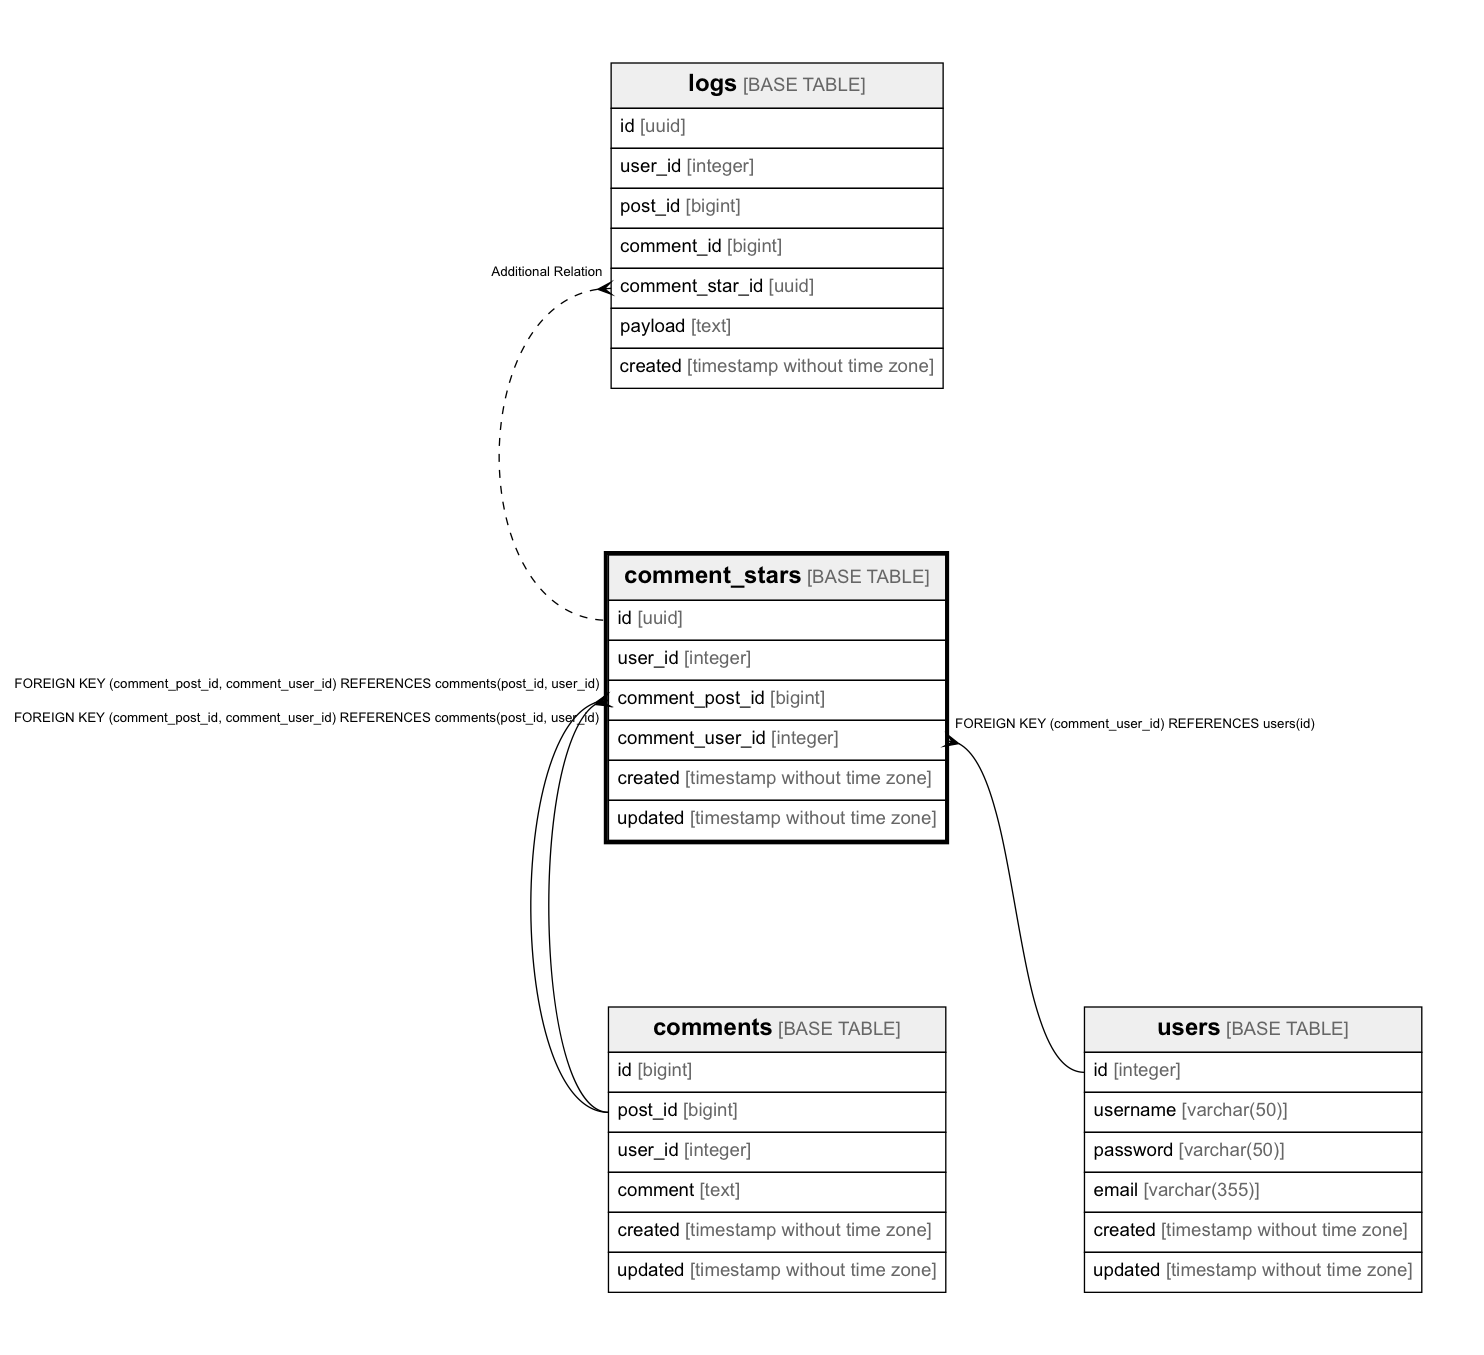
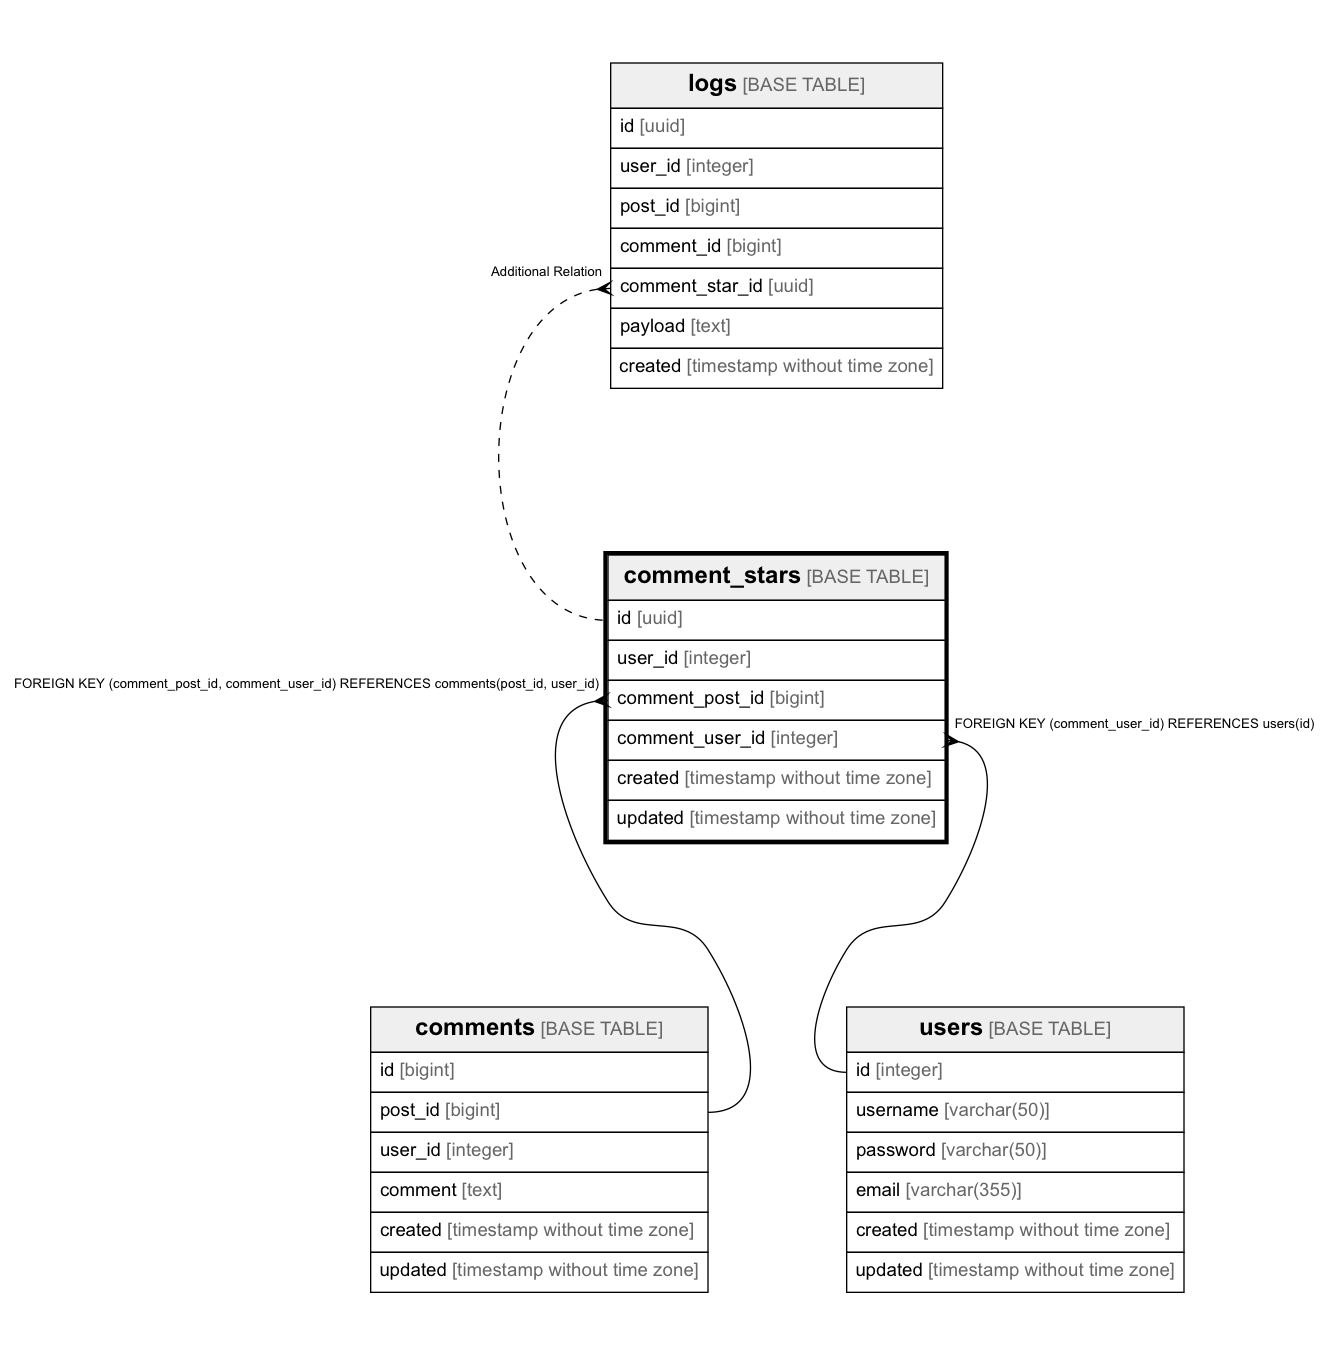
Fix relation rendering of multi-columns foreign key

diff --git a/output/md/templates.go b/output/md/templates.go
@@ -6,17 +6,12 @@ import (
 	"github.com/jessevdk/go-assets"
 )
 
-var _Assets43889384df1c6f74d764c29d91b9d5637eb46061 = "# {{ .Schema.Name }}\n\n## Tables\n{{ range $t := .Tables }}\n|{{ range $d := $t }} {{ $d | nl2br }} |{{ end }}\n{{- end }}\n\n{{ if .er -}}\n## Relations\n\n![er](schema.png)\n{{- end }}\n\n---\n\n> Generated by [tbls](https://github.com/k1LoW/tbls)"
 var _Assetsac44302fb6150a621aa9d04a0350aac972bf7e18 = "# {{ .Table.Name }}\n\n## Description\n\n{{ .Table.Comment | nl2mdnl -}}\n{{ if .Table.Def }}\n<details>\n<summary><strong>Table Definition</strong></summary>\n\n```sql\n{{ .Table.Def }}\n```\n\n</details>\n{{ end }}\n\n## Columns\n{{ range $l := .Columns }}\n|{{ range $d := $l }} {{ $d | nl2br }} |{{ end }}\n{{- end }}\n\n{{ $len := len .Constraints }}{{ if ne $len 2 -}}\n## Constraints\n{{ range $l := .Constraints }}\n|{{ range $d := $l }} {{ $d | nl2br }} |{{ end }}\n{{- end }}\n{{- end }}\n\n{{ $len := len .Indexes -}}{{ if ne $len 2 -}}\n## Indexes\n{{ range $l := .Indexes }}\n|{{ range $d := $l }} {{ $d | nl2br }} |{{ end }}\n{{- end }}\n{{- end }}\n\n{{ $len := len .Triggers -}}{{ if ne $len 2 -}}\n## Triggers\n{{ range $l := .Triggers }}\n|{{ range $d := $l }} {{ $d | nl2br }} |{{ end }}\n{{- end }}\n{{- end }}\n\n{{ if .er -}}\n## Relations\n\n![er]({{ .Table.Name }}.png)\n{{- end }}\n\n---\n\n> Generated by [tbls](https://github.com/k1LoW/tbls)"
+var _Assets43889384df1c6f74d764c29d91b9d5637eb46061 = "# {{ .Schema.Name }}\n\n## Tables\n{{ range $t := .Tables }}\n|{{ range $d := $t }} {{ $d | nl2br }} |{{ end }}\n{{- end }}\n\n{{ if .er -}}\n## Relations\n\n![er](schema.png)\n{{- end }}\n\n---\n\n> Generated by [tbls](https://github.com/k1LoW/tbls)"
 
 // Assets returns go-assets FileSystem
 var Assets = assets.NewFileSystem(map[string][]string{"/": []string{"index.md.tmpl", "table.md.tmpl"}}, map[string]*assets.File{
-	"/table.md.tmpl": &assets.File{
-		Path:     "/table.md.tmpl",
-		FileMode: 0x1a4,
-		Mtime:    time.Unix(1532785399, 1532785399000000000),
-		Data:     []byte(_Assetsac44302fb6150a621aa9d04a0350aac972bf7e18),
-	}, "/": &assets.File{
+	"/": &assets.File{
 		Path:     "/",
 		FileMode: 0x800001ed,
 		Mtime:    time.Unix(1532785399, 1532785399000000000),
@@ -26,4 +21,9 @@ var Assets = assets.NewFileSystem(map[string][]string{"/": []string{"index.md.tm
 		FileMode: 0x1a4,
 		Mtime:    time.Unix(1532239511, 1532239511000000000),
 		Data:     []byte(_Assets43889384df1c6f74d764c29d91b9d5637eb46061),
+	}, "/table.md.tmpl": &assets.File{
+		Path:     "/table.md.tmpl",
+		FileMode: 0x1a4,
+		Mtime:    time.Unix(1532785399, 1532785399000000000),
+		Data:     []byte(_Assetsac44302fb6150a621aa9d04a0350aac972bf7e18),
 	}}, "")

diff --git a/output/dot/dot.go b/output/dot/dot.go
@@ -36,14 +36,18 @@ func OutputTable(wr io.Writer, t *schema.Table) error {
 				encountered[r.ParentTable.Name] = true
 				tables = append(tables, r.ParentTable)
 			}
-			relations = append(relations, r)
+			if !contains(relations, r) {
+				relations = append(relations, r)
+			}
 		}
 		for _, r := range c.ChildRelations {
 			if !encountered[r.Table.Name] {
 				encountered[r.Table.Name] = true
 				tables = append(tables, r.Table)
 			}
-			relations = append(relations, r)
+			if !contains(relations, r) {
+				relations = append(relations, r)
+			}
 		}
 	}
 
@@ -60,4 +64,13 @@ func OutputTable(wr io.Writer, t *schema.Table) error {
 	}
 
 	return nil
+}
+
+func contains(rs []*schema.Relation, e *schema.Relation) bool {
+	for _, r := range rs {
+		if e == r {
+			return true
+		}
+	}
+	return false
 }
